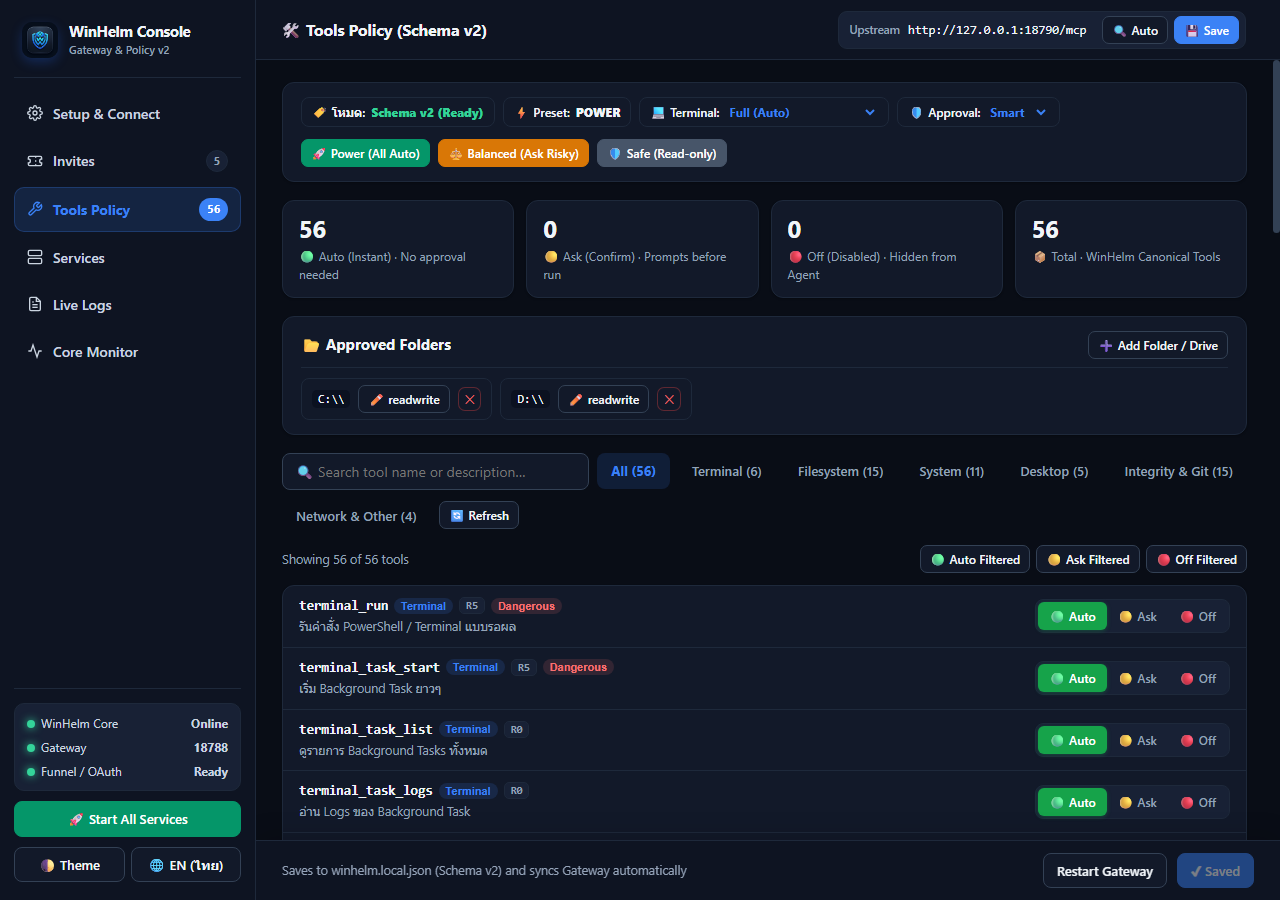
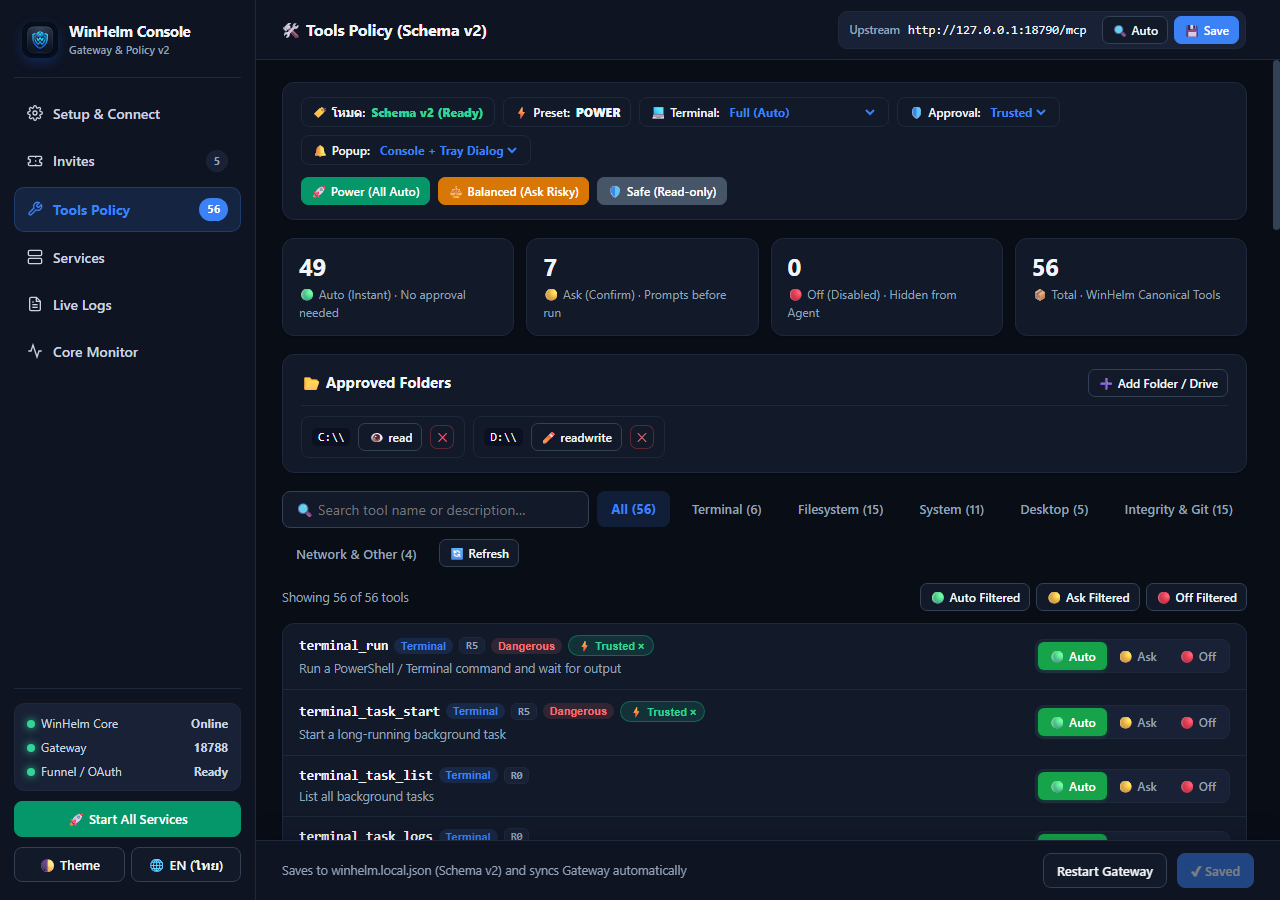
feat(console): add English descriptions for all 56 tools and update tools.png

diff --git a/admin/index.html b/admin/index.html
@@ -1386,13 +1386,13 @@ function renderFolders() {
   const wrap = el('folders-list');
   if (!wrap) return;
   if (!schemaFolders.length) {
-    wrap.innerHTML = '<div class="sub">ยังไม่มีโฟลเดอร์ที่กำหนด (ต้องมีอย่างน้อย 1 โฟลเดอร์ใน Schema v2)</div>';
+    wrap.innerHTML = `<div class="sub">${t('ยังไม่มีโฟลเดอร์ที่กำหนด (ต้องมีอย่างน้อย 1 โฟลเดอร์ใน Schema v2)', 'No folders configured (at least 1 folder required in Schema v2)')}</div>`;
     return;
   }
   wrap.innerHTML = schemaFolders.map((f, idx) => `
     <span class="preset-pill" style="gap:8px;padding:6px 10px">
-      <code>${f.path}</code>
-      <button class="btn-xs" data-fld-toggle="${idx}" title="คลิกเพื่อสลับสิทธิ์ read / readwrite">${f.permission === 'readwrite' ? '✏ readwrite' : '👁 read'}</button>
+      <code>${esc(f.path)}</code>
+      <button class="btn-xs" data-fld-toggle="${idx}" title="${t('คลิกเพื่อสลับสิทธิ์ read / readwrite', 'Click to toggle read / readwrite')}">${f.permission === 'readwrite' ? '✏ readwrite' : '👁 read'}</button>
       <button class="btn-xs danger-outline" data-fld-del="${idx}" style="padding:2px 6px">✕</button>
     </span>`).join('');
 
@@ -1466,7 +1466,7 @@ function visibleSchemaTools() {
   if (!schemaData) return [];
   const q = (el('q').value || '').trim().toLowerCase();
   return schemaData.tools.filter((t) => {
-    if (q && !t.name.toLowerCase().includes(q) && !(t.desc || '').toLowerCase().includes(q)) return false;
+    if (q && !t.name.toLowerCase().includes(q) && !(t.desc || '').toLowerCase().includes(q) && !(t.descEn || '').toLowerCase().includes(q)) return false;
     if (schemaCategory === 'all') return true;
     if (schemaCategory === 'terminal') return t.category === 'Terminal';
     if (schemaCategory === 'filesystem') return t.category === 'Filesystem';
@@ -1499,7 +1499,7 @@ function renderSchemaList() {
           ${tItem.isDangerous ? `<span class="tag-danger">${t('อันตราย', 'Dangerous')}</span>` : ''}
           ${isTrustedActive ? `<button type="button" class="tag-trusted" data-untrust="${esc(tItem.name)}" title="${t('กำลังรันอัตโนมัติในโหมด Trusted — คลิกเพื่อปลดกลับเป็น Ask', 'Running auto under Trusted mode — click to revert to Ask')}">${t('⚡ Trusted ×', '⚡ Trusted ×')}</button>` : ''}
         </div>
-        <div class="tool-desc">${esc(tItem.desc || '')}</div>
+        <div class="tool-desc">${esc(LANG === 'en' ? (tItem.descEn || tItem.desc || '') : (tItem.desc || ''))}</div>
       </div>
       <div class="radios">
         <label class="${cls('auto').trim()}"><input type="radio" name="sch_${esc(tItem.name)}" value="auto"${sel('auto')}>🟢 Auto</label>
@@ -2102,7 +2102,7 @@ function applyLang(lang, rerender = false) {
   if (rerender) {
     if (activeTabId === 'tab-setup') loadSetup();
     else if (activeTabId === 'tab-invites') loadInvites();
-    else if (activeTabId === 'tab-tools') { renderSchemaCards(); renderSchemaList(); }
+    else if (activeTabId === 'tab-tools') { renderFolders(); renderSchemaCards(); renderSchemaList(); }
     else if (activeTabId === 'tab-services') loadServices();
     else if (activeTabId === 'tab-monitor') loadCoreMonitor();
   }
